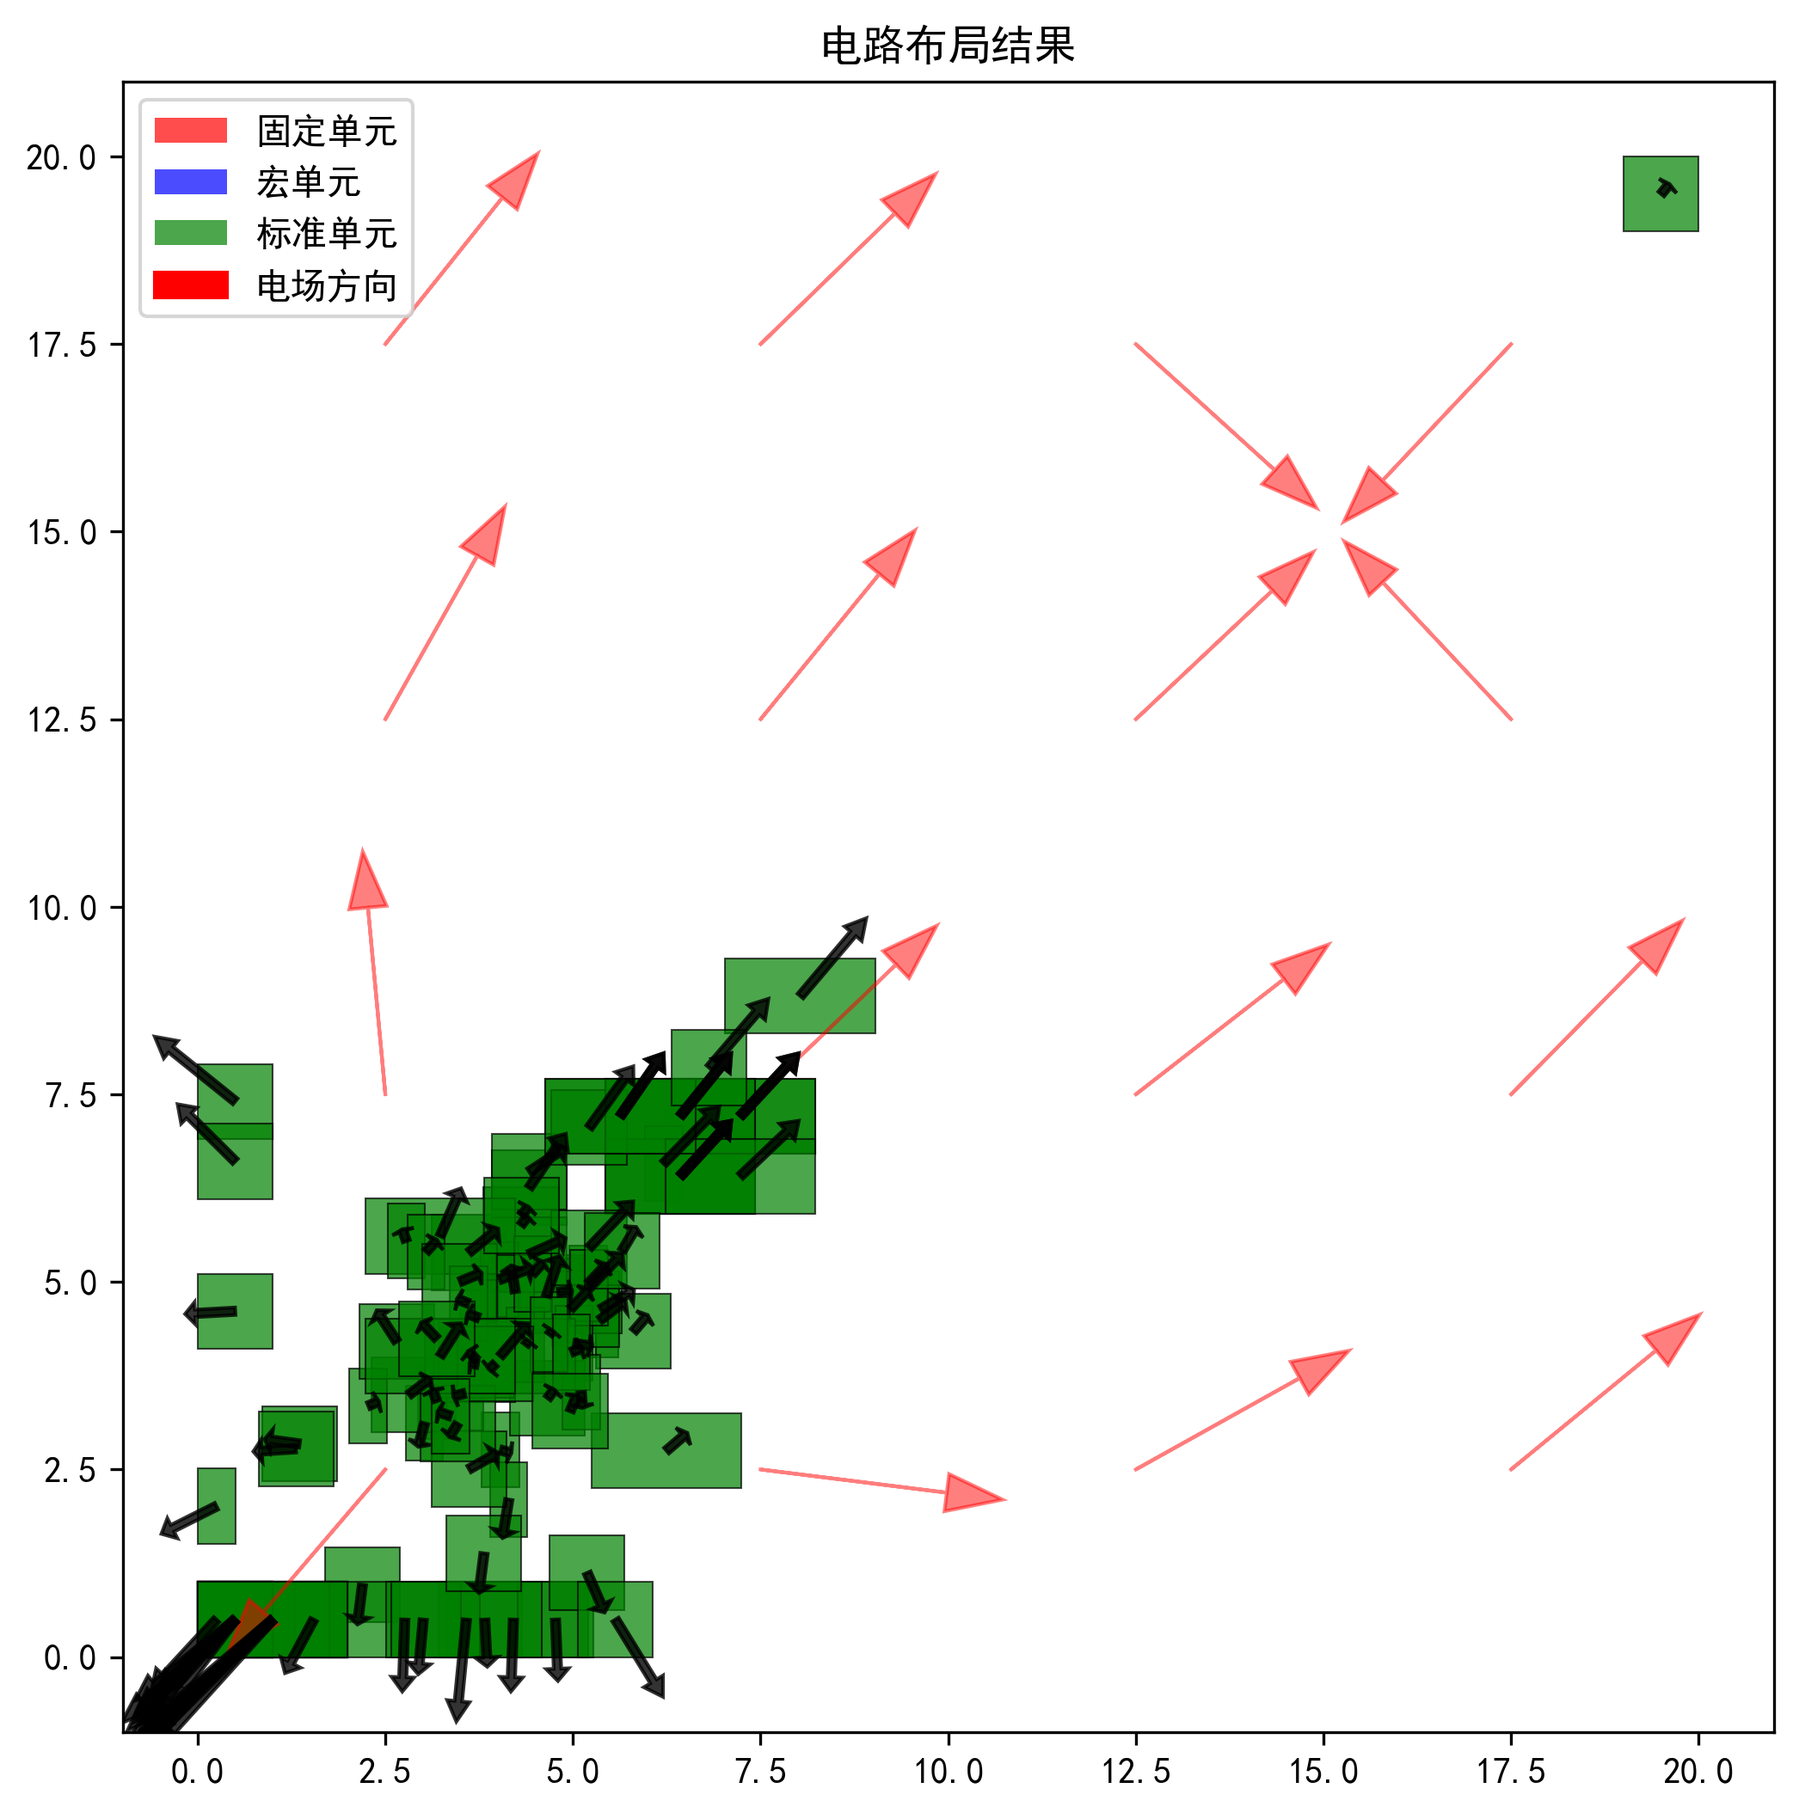
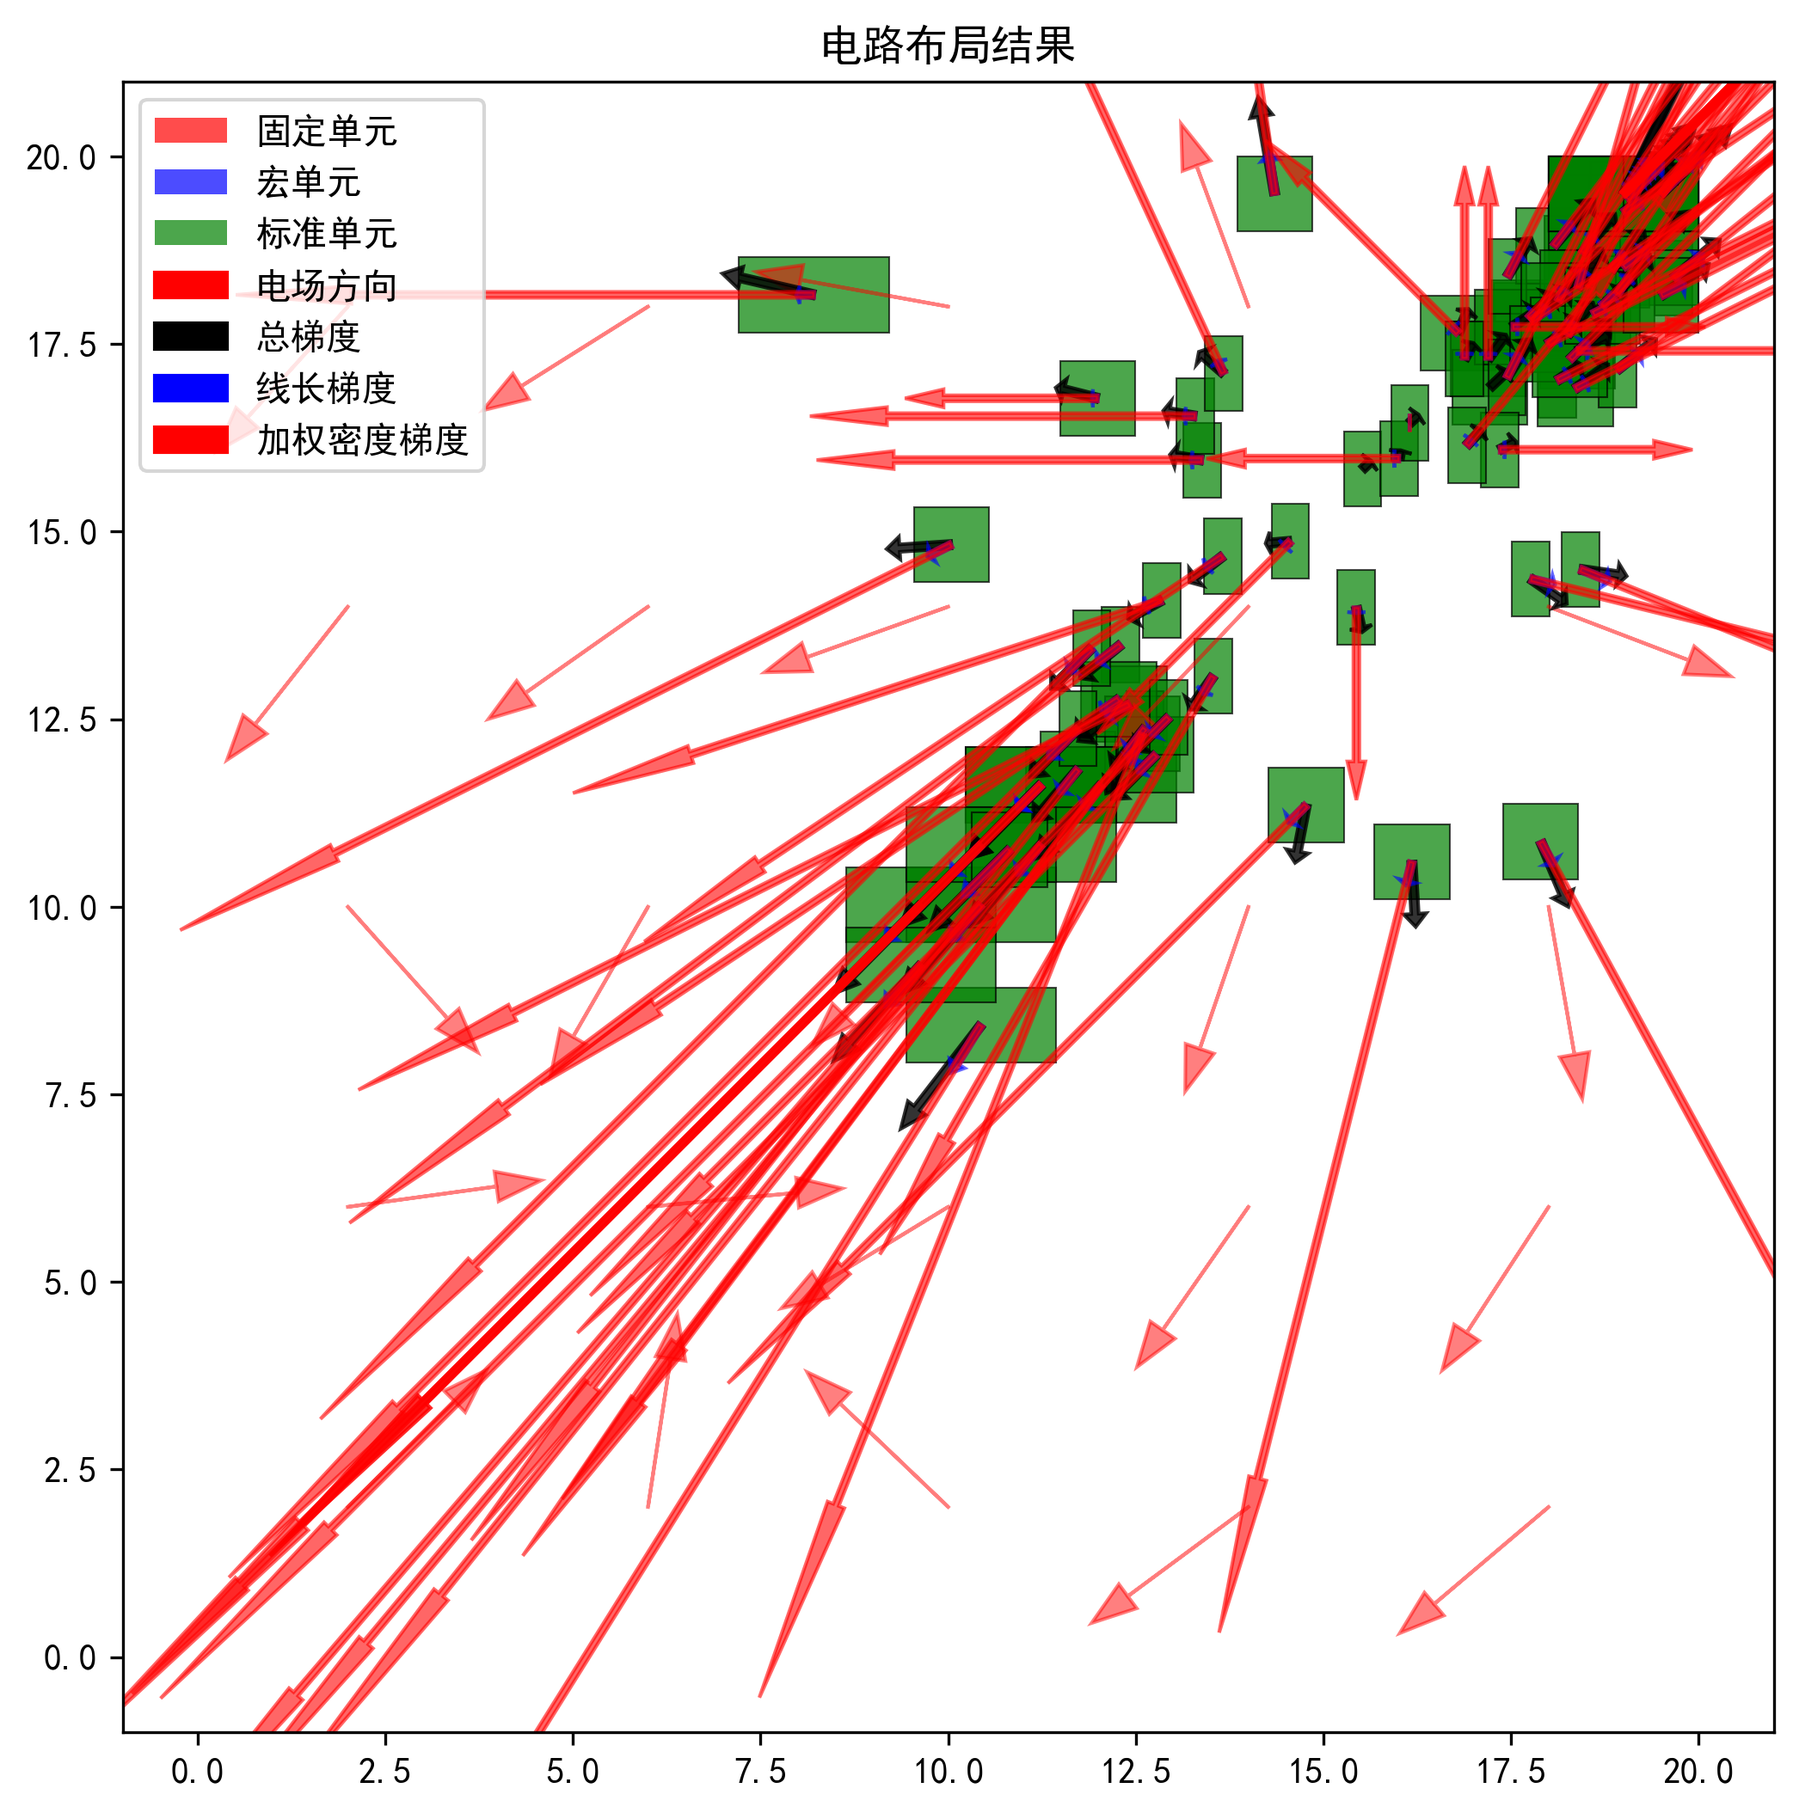
准备走人

diff --git a/src/visualizer.py b/src/visualizer.py
@@ -159,14 +159,19 @@ class PlacementVisualizer:
             self.fig.canvas.flush_events()
 
 
-    def visualize_placement(self, density_map: DensityMap = None, show_field = False, show = True, output_file = None, gradients: Dict[str, Tuple[float, float]] = None):
+    def visualize_placement(self, density_map: DensityMap = None, show_field = False, show = True, output_file = None, 
+                         gradients: Dict[str, Tuple[float, float]] = None,
+                         wirelength_gradients: Dict[str, Tuple[float, float]] = None,
+                         weighted_density_gradients: Dict[str, Tuple[float, float]] = None):
         """可视化布局结果
         Args:
             density_map: 密度图对象
             show_field: 是否显示电场
             show: 是否显示图形
             output_file: 输出文件路径
-            gradients: 单元移动方向的梯度字典
+            gradients: 总梯度字典 (grad_x, grad_y)
+            wirelength_gradients: 线长梯度字典 (grad_x, grad_y)
+            weighted_density_gradients: 加权密度梯度字典 (grad_x, grad_y)
         """       
         # 清除之前的内容
         self.ax.clear()
@@ -187,6 +192,7 @@ class PlacementVisualizer:
         # 绘制芯片边界
         min_x, min_y, max_x, max_y = self.circuit.die_area
         self.ax.add_patch(Rectangle((min_x, min_y), max_x - min_x, max_y - min_y, fill=False, edgecolor='black',linewidth=2))
+        
         # 绘制单元
         self.draw_cells()
         
@@ -194,18 +200,16 @@ class PlacementVisualizer:
         if density_map is not None and show_field:
             self.draw_field(density_map)
             
-        # 如果提供了梯度信息，绘制移动方向
-        if gradients is not None:
-            self.draw_movement_arrows(gradients)
+        # 绘制不同类型的梯度
+        if gradients is not None or wirelength_gradients is not None or weighted_density_gradients is not None:
+            self.draw_movement_arrows(gradients, wirelength_gradients, weighted_density_gradients)
         
         # 设置坐标轴
         self.ax.set_xlim(min_x - 1, max_x + 1)
         self.ax.set_ylim(min_y - 1, max_y + 1)
         self.ax.set_aspect('equal')
-        # self.ax.set_xlabel('X 坐标')
-        # self.ax.set_ylabel('Y 坐标')
         
-        # 根据文件名设置不同的标题
+        # 设置标题
         title = '电路布局结果'
         self.ax.set_title(title)
         
@@ -218,18 +222,23 @@ class PlacementVisualizer:
         ]
         if show_field:
             legend_elements.append(Arrow(0, 0, 1, 1, color='red', label='电场方向'))
+        if gradients is not None:
+            legend_elements.append(Arrow(0, 0, 1, 1, color='black', label='总梯度'))
+        if wirelength_gradients is not None:
+            legend_elements.append(Arrow(0, 0, 1, 1, color='blue', label='线长梯度'))
+        if weighted_density_gradients is not None:
+            legend_elements.append(Arrow(0, 0, 1, 1, color='red', label='加权密度梯度'))
+            
         self.ax.legend(handles=legend_elements, loc='upper left')
         
         # 保存或显示图形
         if output_file:
             plt.savefig(output_file, dpi=300, bbox_inches='tight')
-            # logger.info(f"布局图保存到: {output_file}")
         
         # 更新显示
         if show:
             self.fig.canvas.draw()
             self.fig.canvas.flush_events()
-            
 
     def draw_cells(self):
         """绘制所有单元"""
@@ -284,32 +293,47 @@ class PlacementVisualizer:
                     # 绘制箭头
                     self.ax.arrow(x, y, fx, fy,head_width=scale*0.2,head_length=scale*0.3,fc='red', ec='red',alpha=0.5)
 
-    def draw_movement_arrows(self, gradients: Dict[str, Tuple[float, float]]):
-        """
+    def draw_movement_arrows(self, gradients: Dict[str, Tuple[float, float]] = None,
+                           wirelength_gradients: Dict[str, Tuple[float, float]] = None,
+                           weighted_density_gradients: Dict[str, Tuple[float, float]] = None):
+        """绘制移动方向箭头
         Args:
-            gradients: 字典，键为单元名称，值为(grad_x, grad_y)梯度元组
+            gradients: 总梯度字典
+            wirelength_gradients: 线长梯度字典
+            weighted_density_gradients: 加权密度梯度字典
         """
-        if not gradients:
-            return
-            
-        for cell_name, (grad_x, grad_y) in gradients.items():
+        def draw_arrow(cell_name, grad_x, grad_y, color, alpha=0.8, scale=1.0):
             if cell_name not in self.circuit.cells:
-                continue
+                return
                 
             cell = self.circuit.cells[cell_name]
-            # 获取单元中心点
             center_x, center_y = cell.get_center()
             
-            # 计算箭头长度（根据梯度大小标准化）
+            # 计算箭头长度
             magnitude = np.sqrt(grad_x**2 + grad_y**2)
             if magnitude < 1e-6:  # 避免除以零
-                continue
+                return
                 
             # 标准化箭头长度
-            arrow_length = min(20, magnitude * 0.1)  # 限制最大长度
-            dx = -grad_x * arrow_length / magnitude  # 注意这里是负的梯度方向
+            arrow_length = min(20, magnitude * 0.1) * scale
+            dx = -grad_x * arrow_length / magnitude
             dy = -grad_y * arrow_length / magnitude
             
             # 绘制箭头
-            arrow = Arrow(center_x, center_y, dx, dy,width=0.5, color='black', alpha=0.8)
+            arrow = Arrow(center_x, center_y, dx, dy, width=0.5*scale, color=color, alpha=alpha)
             self.ax.add_patch(arrow)
+
+        # 绘制总梯度箭头
+        if gradients:
+            for cell_name, (grad_x, grad_y) in gradients.items():
+                draw_arrow(cell_name, grad_x, grad_y, 'black', alpha=0.8, scale=1.0)
+
+        # 绘制线长梯度箭头
+        if wirelength_gradients:
+            for cell_name, (grad_x, grad_y) in wirelength_gradients.items():
+                draw_arrow(cell_name, grad_x, grad_y, 'blue', alpha=0.6, scale=0.8)
+
+        # 绘制加权密度梯度箭头
+        if weighted_density_gradients:
+            for cell_name, (grad_x, grad_y) in weighted_density_gradients.items():
+                draw_arrow(cell_name, grad_x, grad_y, 'red', alpha=0.6, scale=0.8)

diff --git a/src/placer.py b/src/placer.py
@@ -9,6 +9,8 @@ from src.density import DensityMap
 from src.visualizer import PlacementVisualizer
 from scipy.ndimage import gaussian_filter
 import time
+import os
+import csv
 
 logger = logging.getLogger("ePlace.Placer")
 
@@ -154,6 +156,9 @@ class ElectrostaticPlacer:
         self.visualizer.visualize_placement(self.density_map, show_field=True,output_file=r"images/initial_placement.png",show=True)
 
         current_hpwl=0
+        
+        # 创建logs目录（如果不存在）
+        os.makedirs("logs", exist_ok=True)
 
         # 全局布局迭代
         for iteration in range(self.max_iterations):
@@ -161,7 +166,20 @@ class ElectrostaticPlacer:
 
             print(f"-----------------------iteration: {iteration}-----------------------")
 
-    
+            # 为当前迭代创建CSV文件
+            log_file = f"logs/iteration_{iteration}.csv"
+            with open(log_file, 'w', newline='') as f:
+                writer = csv.writer(f)
+                # 写入表头
+                writer.writerow([
+                    "单元名称",
+                    "当前位置X", "当前位置Y",
+                    "线长梯度X", "线长梯度Y",
+                    "密度梯度X", "密度梯度Y",
+                    "加权密度梯度X", "加权密度梯度Y",
+                    "总梯度X", "总梯度Y",
+                    "更新后位置X", "更新后位置Y"
+                ])
 
             cell_gradients_hpwl={} # 存储所有单元的线长梯度
             cell_gradients_density={} # 存储所有单元的密度梯度
@@ -208,31 +226,34 @@ class ElectrostaticPlacer:
                     # 计算总梯度
                     grad_x = grad_x_hpwl + self._lambda * grad_x_density
                     grad_y = grad_y_hpwl + self._lambda * grad_y_density
-                    
 
                     cell_gradients_density[cell_name]=(grad_x_hpwl,grad_y_hpwl)
                     cell_gradients[cell.name] = (grad_x, grad_y)
 
-                    print(f"cell.name: {cell.name}, 当前位置: ({cell.x:.2f},{cell.y:.2f})")
-
-
-                    print(f"cell.name: {cell.name}, grad_x: {grad_x:.2f}, grad_y: {grad_y:.2f}")
-
                     # 更新位置
                     new_x = cell.x - self.learning_rate * grad_x
                     new_y = cell.y - self.learning_rate * grad_y
-                    print(f"cell.name: {cell.name}, 更新后的位置({new_x:.3f},{new_y:.3f})")
-             
+                    
                     new_x, new_y = self.clip_position(cell, new_x, new_y)  # 限制在芯片区域内
-                    print(f"cell.name: {cell.name}, 限制区域后的位置({new_x:.3f},{new_y:.3f})")
 
-                    # print("     ")
+                    # 记录单元信息到CSV文件
+                    with open(log_file, 'a', newline='') as f:
+                        writer = csv.writer(f)
+                        writer.writerow([
+                            cell_name,
+                            f"{cell.x:.3f}", f"{cell.y:.3f}",
+                            f"{grad_x_hpwl:.3f}", f"{grad_y_hpwl:.3f}",
+                            f"{grad_x_density:.3f}", f"{grad_y_density:.3f}",
+                            f"{grad_x_density * self._lambda:.3f}", f"{grad_y_density * self._lambda:.3f}",
+                            f"{grad_x:.3f}", f"{grad_y:.3f}",
+                            f"{new_x:.3f}", f"{new_y:.3f}"
+                        ])
+                    
                     # 计算移动距离
                     movement = np.sqrt((new_x - cell.x)**2 + (new_y - cell.y)**2)
                     max_movement = max(max_movement, movement)                    
                     cell.move_to(new_x, new_y)
             
-
             # 移动宏单元（通常宏单元移动频率较低）
             if iteration % 5 == 0:  # 每5次迭代更新一次宏单元
                 for cell_name, cell in self.circuit.cells.items():
@@ -257,11 +278,37 @@ class ElectrostaticPlacer:
 
 
             # 每Times次迭代更新一次可视化
-            # output_file=fr"images/placement_{iteration}.png"
-            output_file=None
+            output_file=fr"images/placement_{iteration}.png"
             if iteration % TIMEs == 0:
-                self.visualizer.visualize_placement(self.density_map, show_field=True, \
-                                                    output_file=output_file,gradients=cell_gradients,show=True)
+                # 准备不同类型的梯度信息
+                total_gradients = {}
+                wirelength_gradients = {}
+                weighted_density_gradients = {}
+                
+                for cell_name, cell in self.circuit.cells.items():
+                    if not cell.is_fixed and not cell.is_macro:
+                        # 获取线长梯度
+                        grad_x_hpwl, grad_y_hpwl = cell_gradients_hpwl[cell_name]
+                        wirelength_gradients[cell_name] = (grad_x_hpwl, grad_y_hpwl)
+                        
+                        # 获取加权密度梯度
+                        grad_x_density, grad_y_density = cell_gradients_density[cell_name]
+                        weighted_grad_x = grad_x_density * self._lambda
+                        weighted_grad_y = grad_y_density * self._lambda
+                        weighted_density_gradients[cell_name] = (weighted_grad_x, weighted_grad_y)
+                        
+                        # 获取总梯度
+                        total_gradients[cell_name] = cell_gradients[cell_name]
+
+                self.visualizer.visualize_placement(
+                    self.density_map, 
+                    show_field=True,
+                    output_file=output_file,
+                    gradients=total_gradients,
+                    wirelength_gradients=wirelength_gradients,
+                    weighted_density_gradients=weighted_density_gradients,
+                    show=True
+                )
                 
                 # self.visualizer.visualize_density(self.density_map,output_file=fr"images/density_{iteration}.png",show=False)
                 # self.visualizer.visualize_potential(self.density_map,output_file=fr"images/potential_{iteration}.png",show=False)

diff --git a/delete_all.py b/delete_all.py
@@ -1,0 +1,31 @@
+import os
+
+folder_path = 'images'# 设置 images 文件夹路径
+
+# 图片文件扩展名列表
+image_extensions = ['.jpg', '.jpeg', '.png', '.gif', '.bmp', '.webp']
+
+# 遍历文件夹中的所有文件
+for filename in os.listdir(folder_path):
+    file_path = os.path.join(folder_path, filename)
+    # 检查是否为文件且扩展名为图片格式
+    if os.path.isfile(file_path) and os.path.splitext(filename)[1].lower() in image_extensions:
+        os.remove(file_path)
+        print(f"已删除: {file_path}")
+
+print("图片清理完成。")
+
+
+folder_path = 'logs'# 设置 images 文件夹路径
+
+# 图片文件扩展名列表
+info_extensions = ['.csv', '.json']
+
+# 遍历文件夹中的所有文件
+for filename in os.listdir(folder_path):
+    file_path = os.path.join(folder_path, filename)
+    if os.path.isfile(file_path) and os.path.splitext(filename)[1].lower() in info_extensions:
+        os.remove(file_path)
+        print(f"已删除: {file_path}")
+
+print("记录清理完成。")

diff --git a/delete_log.py b/delete_log.py
@@ -1,0 +1,15 @@
+import os
+
+folder_path = 'logs'# 设置 images 文件夹路径
+
+# 图片文件扩展名列表
+info_extensions = ['.csv', '.json']
+
+# 遍历文件夹中的所有文件
+for filename in os.listdir(folder_path):
+    file_path = os.path.join(folder_path, filename)
+    if os.path.isfile(file_path) and os.path.splitext(filename)[1].lower() in info_extensions:
+        os.remove(file_path)
+        print(f"已删除: {file_path}")
+
+print("记录清理完成。")

diff --git a/src/main.py b/src/main.py
@@ -43,6 +43,7 @@ def main():   #主函数
     end_time = time.time()
     logger.info(f"布局完成，耗时: {end_time - start_time:.2f}秒")
     circuit.print_area_stats()
+    print("ok")
 
 
 
